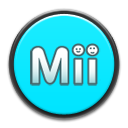
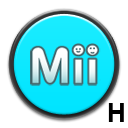
Finalized Overlay/Selection screen
Finalized Overlay/Selection screen
Final touches
Updated Mii icons

Changed region(s): [[0.8438, 0.7812, 0.9688, 0.9688]]

diff --git a/main.js b/main.js
@@ -9,6 +9,75 @@ import { chart } from '/stats.js';
 
 export let finalStats = [];
 
+// Shows selection overlay
+const showOverlay = () => {
+  const overlay = document.getElementById('main-overlay');
+  const mainApp = document.getElementById('main');
+
+  window.addEventListener('mousedown', removeOverlay);
+
+  mainApp.classList.toggle('blur');
+  overlay.classList.toggle('hidden');
+}
+
+// Removes selection overlay
+const removeOverlay = e => {
+  const overlay = document.getElementById('main-overlay');
+  const mainApp = document.getElementById('main');
+
+  if(overlay.classList[0] !== 'hidden' && e.target.id !== 'overlay-menu' && e.target.id !== 'overlay') {
+    updateCalculator(e);
+    overlay.classList.toggle('hidden');
+    mainApp.classList.toggle('blur');
+    document.getElementById('overlay-menu').innerHTML = '';
+    window.removeEventListener('mousedown', removeOverlay);
+  }
+}
+
+// Updates the calculator information
+const updateCalculator = e => {
+
+  // Check through drivers
+  drivers.forEach(driver => {
+    if(driver.name === e.target.id){
+      updateCharImage(driver.image);
+      updateCharText(driver.name);
+      updateStats();
+      return;
+    }
+  });
+
+  // Check through bodies
+  bodies.forEach(body => {
+    if(body.name === e.target.id){
+      updateBodyImage(body.image);
+      updateBodyText(body.name);
+      updateStats();
+      return;
+    }
+  });
+
+  // Check through tires
+  tires.forEach(tire => {
+    if(tire.name === e.target.id){
+      updateTiresImage(tire.image);
+      updateTiresText(tire.name);
+      updateStats();
+      return;
+    }
+  });
+
+  // Check through gliders
+  gliders.forEach(glider => {
+    if(glider.name === e.target.id){
+      updateGliderImage(glider.image);
+      updateGliderText(glider.name);
+      updateStats();
+      return;
+    }
+  });
+}
+
 
 // ========== Drivers ==========// 
 
@@ -79,6 +148,21 @@ const updateCharText = currChar => {
   charText.innerHTML = currChar; 
 }
 
+// Fills the overlay grid with drivers
+const fillCharGrid = () => {
+  const overlay = document.getElementById('overlay-menu');
+
+  drivers.forEach(driver => {
+    const driverDiv = document.createElement('div');
+    driverDiv.className = 'modal-image';
+    driverDiv.id = driver.name;
+    let styles = `background-image: url(${driver.image});background-repeat: no-repeat; background-size: contain;`;
+    console.log(driver.image);
+    driverDiv.setAttribute('style', styles);
+    overlay.appendChild(driverDiv);
+  })
+}
+
 // ========== Kart Bodies ==========// 
 
 // Displays next kart body
@@ -146,6 +230,21 @@ const updateBodyText = currBody => {
   const bodyText = document.getElementById('body-name');
 
   bodyText.innerHTML = currBody; 
+}
+
+// Fills the overlay grid with kart bodies
+const fillBodyGrid = () => {
+  const overlay = document.getElementById('overlay-menu');
+
+  bodies.forEach(body => {
+    const bodyDiv = document.createElement('div');
+    bodyDiv.className = 'modal-image';
+    bodyDiv.id = body.name;
+    let styles = `background-image: url(${body.image});background-repeat: no-repeat; background-size: contain;`;
+    console.log(body.image);
+    bodyDiv.setAttribute('style', styles);
+    overlay.appendChild(bodyDiv);
+  })
 }
  
 
@@ -218,6 +317,21 @@ const updateTiresText = currTires => {
   tiresText.innerHTML = currTires; 
 }
 
+// Fills the overlay grid with kart tires
+const fillTiresGrid = () => {
+  const overlay = document.getElementById('overlay-menu');
+
+  tires.forEach(tire => {
+    const tireDiv = document.createElement('div');
+    tireDiv.className = 'modal-image';
+    tireDiv.id = tire.name;
+    let styles = `background-image: url(${tire.image});background-repeat: no-repeat; background-size: contain;`;
+    console.log(tire.image);
+    tireDiv.setAttribute('style', styles);
+    overlay.appendChild(tireDiv);
+  })
+}
+
 // ========== Gliders ==========//
 
 // Displays next kart glider
@@ -280,11 +394,26 @@ const updateGliderImage = currGliderUrl => {
   document.getElementById('glider-image').style.backgroundImage = `url(${currGliderUrl})`;
 }
 
-// Updates kart tires text
+// Updates kart glider text
 const updateGliderText = currGlider => {
   const gliderText = document.getElementById('glider-name');
 
   gliderText.innerHTML = currGlider; 
+}
+
+// Fills the overlay grid with gliders
+const fillGliderGrid = () => {
+  const overlay = document.getElementById('overlay-menu');
+
+  gliders.forEach(glider => {
+    const gliderDiv = document.createElement('div');
+    gliderDiv.className = 'modal-image';
+    gliderDiv.id = glider.name;
+    let styles = `background-image: url(${glider.image});background-repeat: no-repeat; background-size: contain;`;
+    console.log(glider.image);
+    gliderDiv.setAttribute('style', styles);
+    overlay.appendChild(gliderDiv);
+  })
 }
 
 // ========== Stats ==========//
@@ -343,18 +472,39 @@ const calculateStats = stats => {
 
 
 // ========== Event Listeners ==========//
+// Driver event listeners
 document.getElementById('char-right').addEventListener('click', changeCharRight);
 document.getElementById('char-left').addEventListener('click', changeCharLeft);
+document.getElementById('char-image').addEventListener('click', () => {
+  showOverlay();
+  fillCharGrid();
+});
 
+// Body event listeners
 document.getElementById('body-right').addEventListener('click', changeBodyRight);
 document.getElementById('body-left').addEventListener('click', changeBodyLeft);
+document.getElementById('body-image').addEventListener('click', () => {
+  showOverlay();
+  fillBodyGrid();
+});
 
+// Tires event listeners
 document.getElementById('tires-right').addEventListener('click', changeTiresRight);
 document.getElementById('tires-left').addEventListener('click', changeTiresLeft);
+document.getElementById('tires-image').addEventListener('click', () => {
+  showOverlay();
+  fillTiresGrid();
+});
 
+// Glider event listeners
 document.getElementById('glider-right').addEventListener('click', changeGliderRight);
 document.getElementById('glider-left').addEventListener('click', changeGliderLeft);
+document.getElementById('glider-image').addEventListener('click', () => {
+  showOverlay();
+  fillGliderGrid();
+});
 
+// Main event listeners
 window.onload = function() {
   updateStats();
 }

diff --git a/styles.css b/styles.css
@@ -22,6 +22,14 @@ body {
   font-family: sans-serif;
 }
 
+.blur {
+  filter: blur(3px);
+}
+
+.hidden {
+  display: none;
+}
+
 /* ----- Main App ----- */
 #main {
   display: flex;
@@ -34,6 +42,7 @@ body {
   border: solid 2px #444;
   border-radius: 20px;
   overflow: hidden;
+  
 }
 
 .app-header {
@@ -127,6 +136,42 @@ body {
   background-size: contain;
 }
 
+/* ---------- Overlay ---------- */
+#overlay {
+  min-width: 300px;
+  width: 45vw;
+  max-width: 800px;
+  height: 70vh;
+  background-color: rgba(214, 194, 194, 0.80);
+  border: solid 1px #444;
+  border-radius: 7px;
+  overflow: hidden;
+  position: fixed;
+  top: 50%;
+  left: 50%;
+  transform: translate(-50%, -57%);
+  box-shadow: 0 4px 8px 0 rgba(0, 0, 0, 0.2), 0 6px 20px 0 rgba(0, 0, 0, 0.19);
+}
+
+#overlay-menu {
+  width: calc(100% - 45px);
+  height: calc(100% - 45px);
+  background-color: rgb(243, 243, 243, .8);
+  border: solid 1px #444;
+  overflow-y: scroll;
+  position: fixed;
+  top: 50%;
+  left: 50%;
+  transform: translate(-50%, -50%);
+  padding: 10px;
+  display: grid;
+  grid-template-columns: auto auto;
+  justify-content: space-evenly;
+  row-gap: 15px;
+}
+
+
+/* ---------- Media Queries ---------- */
 @media only screen and (max-width: 768px) {
   .app-header {
     font-size: 1.3em;
@@ -145,5 +190,11 @@ body {
   .app-row p,
   .app-row h1 {
     font-size: 1.1em;
+  }
+}
+
+@media only screen and (min-width: 1350px) {
+  #overlay-menu {
+    grid-template-columns: auto auto auto;
   }
 }

diff --git a/stats.js b/stats.js
@@ -21,7 +21,7 @@ const options = {
   },
 
   // Data labels
-  dataLabels: {
+  dataLabels: {  
     enabled: false
   },
 
@@ -43,6 +43,11 @@ const options = {
 
   // X axis chart categories
   xaxis: {
+    labels: {
+      style: {
+        colors: ['#000', '#000', '#000', '#000', '#000', '#000', '#000', '#000', '#000', '#000', '#000', '#000', '#000']
+      }
+    },
     categories: ['Ground Speed', 'Air Speed', 'Water Speed', 'Anti-Gravity Speed', 'Acceleration', 'Weight', 'Ground Handling', 'Air Handling', 'Water Handling', 'Anti-Gravity Handling', 'On-Road Traction', 'Off-Road Traction', 'Mini Turbo'
     ],
   },

diff --git a/index.html b/index.html
@@ -20,7 +20,7 @@
 
 </head>
 <body>
-  <section id="main">
+  <section id="main" class="">
     <h1 class="app-header">Mario Kart 8 Calculator</h1>
     <div class="app-row char-row">
       <h1 class="row-header">Driver:</h1>
@@ -59,6 +59,13 @@
       </div>
     </div>
     <div class="app-row-large stats-row" id="stat-chart"></div>
+  </section>
+  <section id="main-overlay" class="hidden">
+    <div id="overlay">
+      <div id="overlay-menu">
+        
+      </div>
+    </div>
   </section>
   <script type="module" src="main.js"></script>
   <script type="module" src="stats.js"></script>
